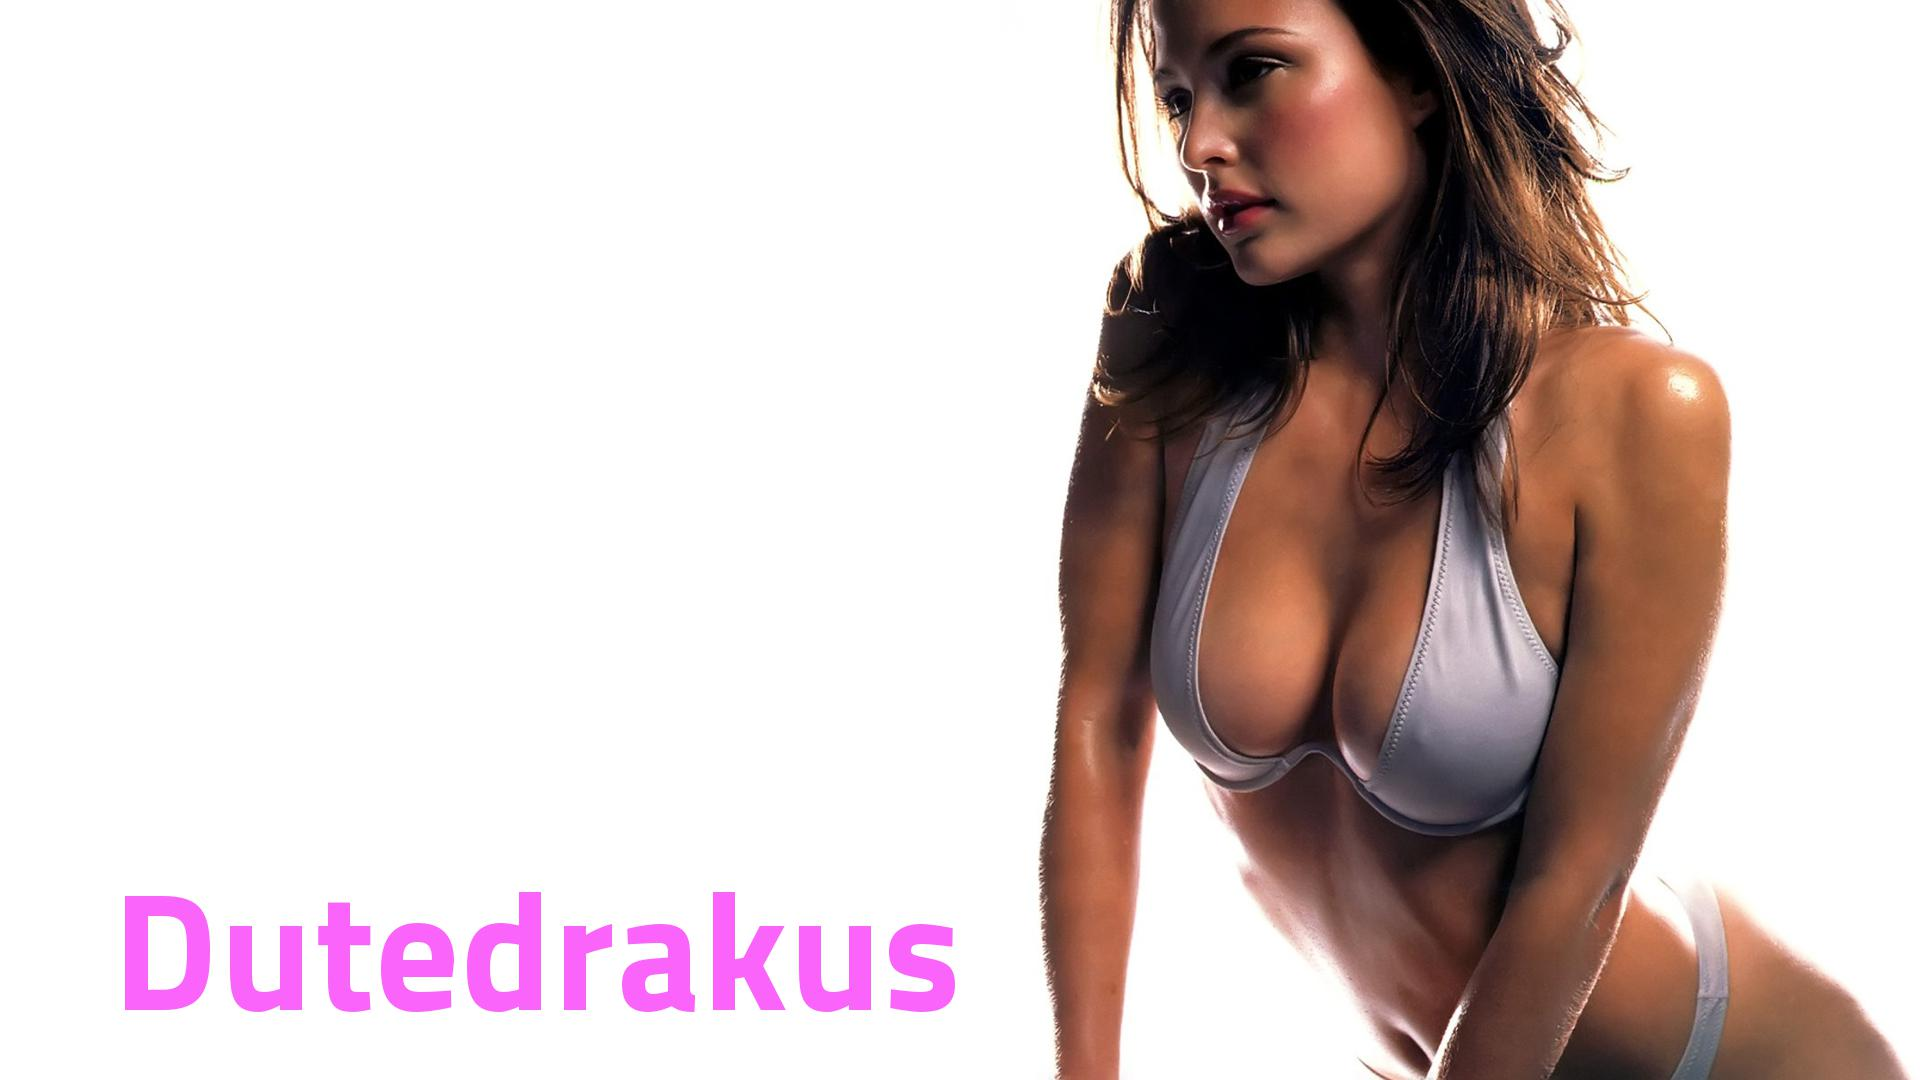
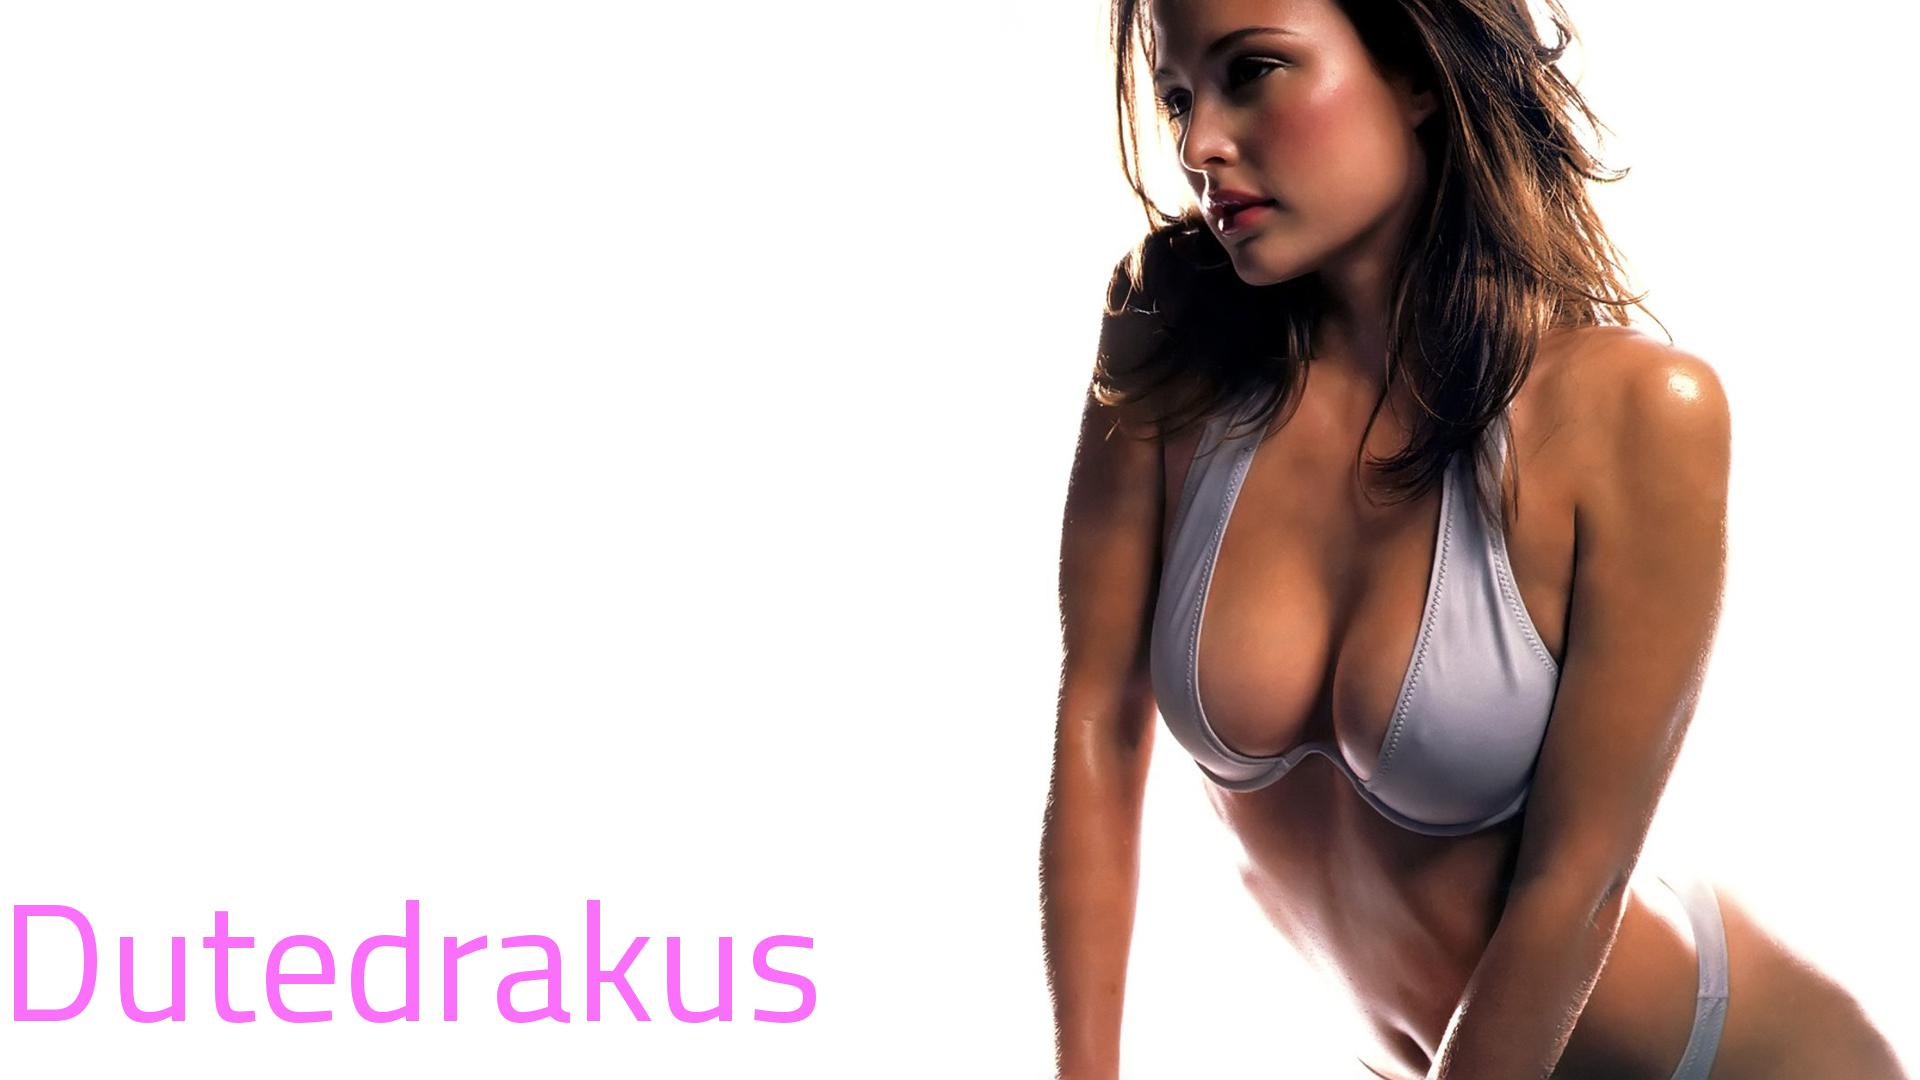
.

Changed region(s): [[0.0, 0.825, 0.5, 0.9472]]

diff --git a/interface/js/interface.js b/interface/js/interface.js
@@ -22,25 +22,25 @@ $(function(){
     * Change, save and load text
     * Text
     **/
-    //var myChildren = $('.curent').children(':nth-child(4)');
+    //var myChildren = $('.curent').children( '.toText' );
     $(document).on('keyup', '#txt', function (event) {
         if (event.keyCode == 13) { // change enter to <br>
-            $('.curent').children(':nth-child(4)').append('<br />');
+            $('.curent').children( '.toText' ).append('<br />');
             return false;
         }
-        $('.curent').children(':nth-child(4)').text($(this).val());
+        $('.curent').children( '.toText' ).text($(this).val());
         var saveId = $('.curent').attr('id');
         localStorage.setItem(saveId,$(this).val());
     });
     $(document).on('mousedown', '.drag', function () {
-        var value = $(this).children(':nth-child(4)').text();
+        var value = $(this).children( '.toText' ).text();
         $('#txt').val(value);
     });
     $( '.drag' ).each(function(){//'p[id^="draggable-"]'
         var getId = $( this ).attr('id');
         var values = localStorage.getItem(getId);
         if (values) {
-            $('#'+getId).children(':nth-child(4)').text(values);
+            $('#'+getId).children( '.toText' ).text(values);
         }
     });
 });
@@ -60,13 +60,13 @@ $(function(){
             //$('#tool-09').text(rgb.r);//.rgb.g.rgb.b
             //$('#tool-10').text(rgb.g);//.rgb.g.rgb.b
             //$('#tool-11').text(rgb.b);//.rgb.g.rgb.b
-            $('.curent').children(':nth-child(4)').css('color','#'+hex);
+            $('.curent').children( '.toText' ).css('color','#'+hex);
             var saveId = $('.curent').attr('id');
-            localStorage.setItem(saveId+'color',$('.curent').children(':nth-child(4)').css('color'));
+            localStorage.setItem(saveId+'color',$('.curent').children( '.toText' ).css('color'));
         }
     });
     $(document).on('mousedown', '.drag', function () {
-        var colorRGB = $(this).children(':nth-child(4)').css('color');
+        var colorRGB = $(this).children( '.toText' ).css('color');
         $('#fontColor').val(colorRGB);
         /**/
         function rgb2hex(rgb) { // Convert rgb to hex
@@ -84,7 +84,7 @@ $(function(){
     $( '.drag' ).each(function(){//'p[id^="draggable-"]'
         var getId = $( this ).attr('id');
         var values = localStorage.getItem(getId+'color');
-        $('#'+getId).children(':nth-child(4)').css('color',values);
+        $('#'+getId).children( '.toText' ).css('color',values);
     });
 });
 $(function() {
@@ -102,9 +102,9 @@ $(function() {
         slide: function( event, ui ) {
             $( '.curent' ).css({'width':'','height':''});// only for handed resize setup reset
             //
-            $('.curent').children(':nth-child(4)').css('font-size',ui.value+'px');
+            $('.curent').children( '.toText' ).css('font-size',ui.value+'px');
             var saveId = $('.curent').attr('id');
-            localStorage.setItem(saveId+'font',$('.curent').children(':nth-child(4)').css('font-size'));
+            localStorage.setItem(saveId+'font',$('.curent').children( '.toText' ).css('font-size'));
         },
         stop: function() {// only for fix resize setup
             var id = $('.curent').attr('id').slice(-1);
@@ -118,16 +118,16 @@ $(function() {
     $(document).on('keyup', '#text-size', function (event) {
         $( '.curent' ).css({'width':'','height':''});//this is only for handed resize setup reset to fixed this
         $( '#slider-size' ).slider( 'value', this.value );
-        $('.curent').children(':nth-child(4)').css('font-size',this.value+'px');
+        $('.curent').children( '.toText' ).css('font-size',this.value+'px');
         var saveId = $('.curent').attr('id');
-        localStorage.setItem(saveId+'font',$('.curent').children(':nth-child(4)').css('font-size'));
+        localStorage.setItem(saveId+'font',$('.curent').children( '.toText' ).css('font-size'));
         // next is only for fix resize setup
         var id = $('.curent').attr('id').slice(-1);
         localStorage.setItem('resizableWidth'+id, $( '.curent' ).width());
         localStorage.setItem('resizableHeight'+id, $( '.curent' ).height());
     });
     $(document).on('mousedown', '.drag', function () {
-        var size = $(this).children(':nth-child(4)').css('font-size');
+        var size = $(this).children( '.toText' ).css('font-size');
         var size = parseInt(size);
         $( '#text-size' ).val(size);
         $( '#slider-size' ).slider({ value: size });
@@ -135,7 +135,7 @@ $(function() {
     $( '.drag' ).each(function(){//'p[id^="draggable-"]'
         var getId = $( this ).attr('id');
         var values = localStorage.getItem(getId+'font');
-        $('#'+getId).children(':nth-child(4)').css('font-size',values);
+        $('#'+getId).children( '.toText' ).css('font-size',values);
     });
 });
 $(function() {
@@ -153,27 +153,27 @@ $(function() {
         slide: function( event, ui ) {
             $( '#text-opacity' ).val( ui.value );
             //
-            $('.curent').children(':nth-child(4)').css('opacity',ui.value);
+            $('.curent').children( '.toText' ).css('opacity',ui.value);
             var saveId = $('.curent').attr('id');
-            localStorage.setItem(saveId+'Opacity',$('.curent').children(':nth-child(4)').css('opacity'));
+            localStorage.setItem(saveId+'Opacity',$('.curent').children( '.toText' ).css('opacity'));
         }
     });
     $( '#text-opacity' ).val( $( '#slider-opacity' ).slider( 'value' ) );
     $(document).on('keyup', '#text-opacity', function (event) {
         $( '#slider-opacity' ).slider( 'value', this.value );
-        $('.curent').children(':nth-child(4)').css('opacity',this.value);
+        $('.curent').children( '.toText' ).css('opacity',this.value);
         var saveId = $('.curent').attr('id');
-        localStorage.setItem(saveId+'Opacity',$('.curent').children(':nth-child(4)').css('opacity'));
+        localStorage.setItem(saveId+'Opacity',$('.curent').children( '.toText' ).css('opacity'));
     });
     $(document).on('mousedown', '.drag', function () {
-        var opac = $(this).children(':nth-child(4)').css('opacity');
+        var opac = $(this).children( '.toText' ).css('opacity');
         $( '#text-opacity' ).val(opac);
         $( '#slider-opacity' ).slider({ value: opac });
     });
     $( '.drag' ).each(function(){//'p[id^="draggable-"]'
         var getId = $( this ).attr('id');
         var values = localStorage.getItem(getId+'Opacity');
-        $('#'+getId).children(':nth-child(4)').css('opacity',values);
+        $('#'+getId).children( '.toText' ).css('opacity',values);
     });
 });
 $(function() {

diff --git a/interface/js/draggable.js b/interface/js/draggable.js
@@ -128,7 +128,7 @@ $(document).ready(function(){
             localStorage.setItem('lastID', lastId);
         }
         //var elem = '<p id="draggable-'+lastId+'" class="drag"><button type="button" class="close" >&times;</button><br /><span id="posY'+lastId+'"></span><br /><span id="posX'+lastId+'"></span><br />id : '+lastId+'</p>';
-        var elem = '<p id="draggable-'+lastId+'" class="drag"><button class="close" type="button" >&times;</button><span class="number">id : '+lastId+'</span><br /><span id="toText'+lastId+'" class="toText">Some Text</span></p>';
+        var elem = '<p id="draggable-'+lastId+'" class="drag"><button class="close" type="button" >&times;</button><span class="number">id : '+lastId+'</span><span id="toText'+lastId+'" class="toText">Some Text</span></p>';
         $( '#middle' ).append(elem);
         arr.push(elem);
         setStorageItem();
@@ -136,7 +136,7 @@ $(document).ready(function(){
         resize();
         $( '.drag' ).removeClass( 'curent' );
         $( '.drag' ).last().addClass( 'curent' );
-        $('#txt').val( $( '.curent' ).children('.toText').text() );
+        $('#txt').val( $( '.curent' ).children( '.toText' ).text() );
     });
     $( '#btnReset' ).click(function(){/***********************************/
         // var cookies = $.cookie();

diff --git a/interface/css/draggable.css b/interface/css/draggable.css
@@ -1,7 +1,7 @@
 .drag{
     #background-color:black;
-    min-width:5em;
-    min-height:2em;
+    #min-width:9em;
+    #min-height:2.5em;
     width: auto;
     height:auto;
     z-index:128;
@@ -12,29 +12,24 @@
     #padding:0.1em;
     #margin:0.5em;
     color:black;
-    border: 1px solid black;
+    #border: 1px solid black;
     right:auto;
     bottom:auto;
 }
 .curent{
     border: 1px solid red;
 }
-.curent span.toText{
-    #border: 1px solid red;
-}
 .close{
     position:absolute;
-    top:0;
-    right:0;
+    top:-1px;
+    right:-30px;
     background-color:rgb(190,37,10);
     border:1px solid rgb(145,28,7);
-    margin:0.1em;
 }
 .number{
     position:absolute;
-    top:0;
-    left:0;
-    margin:0.1em;
+    top:-7px;
+    left:-37px;
 }
 .toText{
     #position:absolute;

diff --git a/interface/css/style.css b/interface/css/style.css
@@ -13,13 +13,13 @@
 @media screen and (max-width: 800px) {html,body{font-size:10px;}}
 @media screen and (max-width: 700px) {html,body{font-size:9.5px;}}
 @font-face {
-	font-family: titillium;
+	font-family: Titillium-Regular;
 	src: url('../fonts/Titillium/Titillium-Regular.otf');
 }
 body {
  	background-color: rgb(127,127,127);
     color:white;
-    font-family: titillium;
+    font-family: Titillium-Regular;
 }
 #relative-holder{
 	position:relative;

diff --git a/interface/php/show.php b/interface/php/show.php
@@ -62,13 +62,13 @@ for ($i = 0; $i < $count; $i++) {
     $top = $data['arry'][$i]['top']+$size;// here set top
     $th = __getProcentFromNumber($top, $workH);
     $x = __getNumberFromProcent($th, $height);
-    $x = $x+51;
+    //$x = $x+51;
     //var_dump($x);
 
     $left = $data['arry'][$i]['left'];// here set left
     $lw = __getProcentFromNumber($left, $workW);
     $y = __getNumberFromProcent($lw, $width);
-    $y = $y +10;
+    //$y = $y +10;
     //var_dump($y);
 
     $handle = imagecreatefromjpeg($picture);
